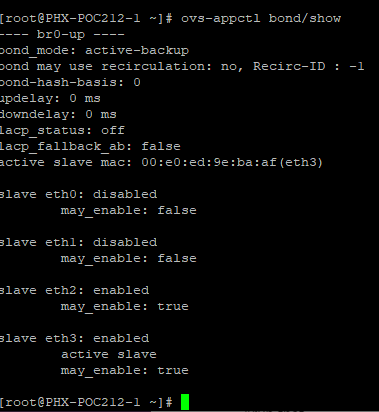
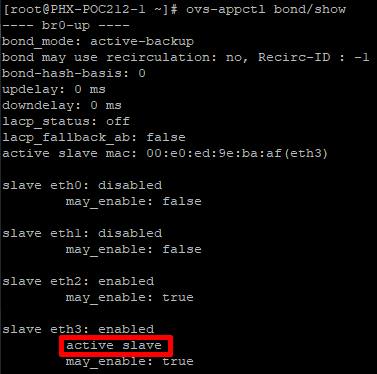
Minor fixes to failure section

Changed region(s): [[0.0, 0.0, 0.992, 1.0], [0.0, 0.7941, 0.1167, 0.9118]]

diff --git a/failure/failure.rst b/failure/failure.rst
@@ -93,11 +93,11 @@ View AHV Host Network Configuration in the CLI
 
 #. SSH to the CVM on the host using the *nutanix* username and password.
 
-#. To verify the names, speed, and connectivity status of all AHV host interfaces, use the `manage_ovs show_uplinks` command, followed by the `manage_ovs show_interfaces` command.
+#. To verify the names, speed, and connectivity status of all AHV host interfaces, use the `manage_ovs show_uplinks` command, followed by the `manage_ovs show_interfaces` command. Since in previous steps we've identified that there is only a single bridge, with a single bond. If we had multiple bridges, use the command `manage_ovs --bridge_name <bridge name> show_uplinks`.
 
    .. code-block:: bash
 
-      manage_ovs --bridge_name br0 show_uplinks
+      manage_ovs show_uplinks
 
       .. figure:: images/6.png
 
@@ -113,46 +113,110 @@ View AHV Host Network Configuration in the CLI
 
 In our example, eth0 and eth1 report **False** under *link* as there is no physical connection to those ports. Ports eth2 and eth3 report **True** under link, as both are physically connected. We now need to identify the active port in this bridge.
 
-#. Execute the command `ovs-appctl bond/show`
-
-   .. figure:: path
-
-      Sample output of the `ovs-appctl bond/show` command
-
-Again, we see that eth0 and eth1 are  disabled, as they have no physical link. They both list “may_enable; false” as activating these ports would be pointless without a physical connection.
-
-
-
-Disable AHV Host Network Port in the CLI
-========================================
-
-IN PROGRESS
-
 #. SSH to the internal management address of the AHV host. This step does not require additional authentication.
 
    .. code-block:: bash
 
       ssh root@192.168.5.1
 
+#. Execute the command:
 
+   .. code-block:: bash
+
+      ovs-appctl bond/show
+
+      .. figure:: images/8.png
+
+         Sample output of the `ovs-appctl bond/show` command
+
+As we've previously seen, eth0 and eth1 are disabled, as they have no physical link. They both list *may_enable: false* as enabling these ports would be pointless without a physical connection.
+
+What we're looking for is the port that states *active slave*. This is the active port for this bond.
+
+Initiate failover within the CLI
+================================
+
+.. note::
+
+   Ensure you are running the BASIC or RECOMMENDED workload tests on the selected host before proceeding.
+
+#. Execute the following command, specifying the bond, and the interface that you are going to make active. In our example, the bond is *br0-up* and the interfaces is *eth2*
+
+   .. code-block:: bash
+
+      ovs-appctl bond/set-active-slave <bond name> <interface name>
+
+      .. figure:: images/9.png
+
+         Sample output of the `ovs-appctl bond/set-active-slave` command
+
+#. Now let's look at the output of the `ovs-appctl bond/show` command now that we've modified the active interface to be *eth2* in our example.
+
+   .. figure:: images/10.png
+
+      Sample output of the `ovs-appctl bond/show` command
+
+#. You have now successfully forced a failover between interfaces.
 
 Node Failure
 ++++++++++++
 
-*In this section, we will be simulating a node failure by leveraging the IPMI (commonly referred to out-of-band or "lights out") management to power off the node unexpectedly, and observe the behavior of the cluster. In a 2+ node configuration, Nutanix can tolarate the unavailability of a single node - whether due to a failure, or scheduled maintenance.*
+*In this section, we will be simulating a node failure by leveraging the IPMI (commonly referred to out-of-band or "lights out" management) to power off the node unexpectedly, and observe the behavior of the cluster. In a 2+ node configuration, Nutanix can tolarate the unavailability of a single node - whether due to a failure, or scheduled maintenance.*
 
-TO BE ADDED
+.. note::
+
+   Ensure you are running the BASIC or RECOMMENDED workload tests on the selected host before proceeding.
+
+#. Login to the IPMI interface of the selected node to participate in the simulated node failure test.
+
+#. Click the **Power Down** button.
+
+   .. figure:: images/11.png
+
+#. Observe that the test VM(s) on the selected host are now powered off, and a High Availability (HA) event has occurred. The cluster will automatically attempt to restart the VM(s) on the remaining hosts.
+
+#. Login to Prism.
+
+#. From the dropdown, select **Hardware**. Click on the selected host. Observe that the host is offline.
+
+#. From the dropdown, select **VM**. Monitor the VM(s) that were previously running on the test host, now will boot up on the remaining hosts. This process should take approximately 3-5 minutes from power off to the VM(s) being up and running once again.
+
+Complete Power Failure
+++++++++++++++++++++++
+
+*In this section, we will be simulating a cluster failure by leveraging the IPMI (commonly referred to out-of-band or "lights out" management) to power off all nodes simultaneously, and observe the behavior of the cluster once the simulated power is restored.*
+
+.. note::
+
+   Ensure you are running the BASIC or RECOMMENDED workload tests on the selected host before proceeding.
+
+#. Open a separate browser tab for each, and within each tab, login to the IPMI interface of each node. This will allow you to quickly and easily power off all nodes.
+
+#. Click the **Power Down** button for each node.
+
+   .. figure:: images/11.png
+
+#. Demonstrate that both the test VM(s) on the selected host are now powered off, but all hosts themselves are powered off.
+
+#. After a few minutes, click the **Power On** button within the IPMI console for each node. Wait approximately 15-20 minutes.
+
+#. SSH into any CVM, and run the following command:
+
+   .. code-block:: bash
+
+      cluster status
+
+      .. figure:: images/12.png
+
+         Sample output of the *cluster status* command for a one node
+
+#. Wait for all services on all nodes in the cluster to be up before you attempt to log in to Prism.
+
+#. Perform a short demo, ensure all VMs are now back up and running, and for a few VMs or services, show the customer that all is up and running without problems.
 
 Power Supply Failure
 ++++++++++++++++++++
 
 *In this section, we will be simulating a node failure by leveraging the IPMI (commonly referred to out-of-band or "lights out") management to power off the node unexpectedly, and observe the behavior of the cluster. In a 2+ node configuration, Nutanix can tolarate the unavailability of a single node - whether due to a failure, or scheduled maintenance.*
 
-TO BE ADDED
-
-Complete Power Failure
-++++++++++++++++++++++
-
-*In this section, we will be simulating a node failure by leveraging the IPMI (commonly referred to out-of-band or "lights out") management to power off all nodes simultaneously, and observe the behavior of the cluster once the simulated power is restored.*
-
-TO BE ADDED
+This applies to a physical POC only.
